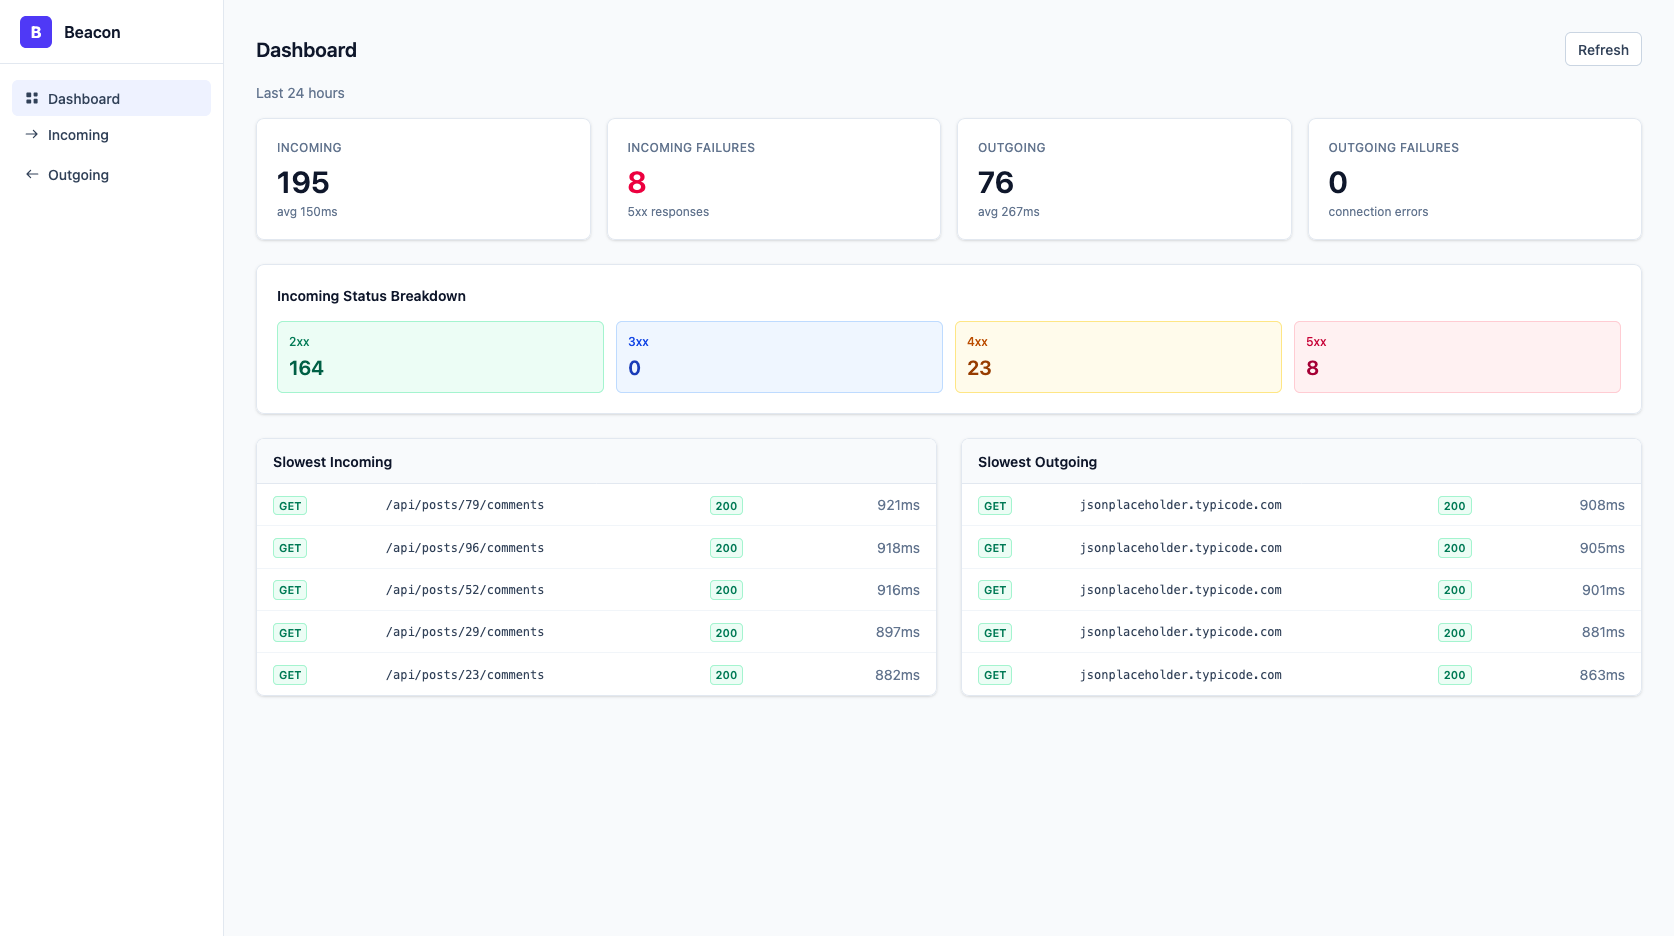
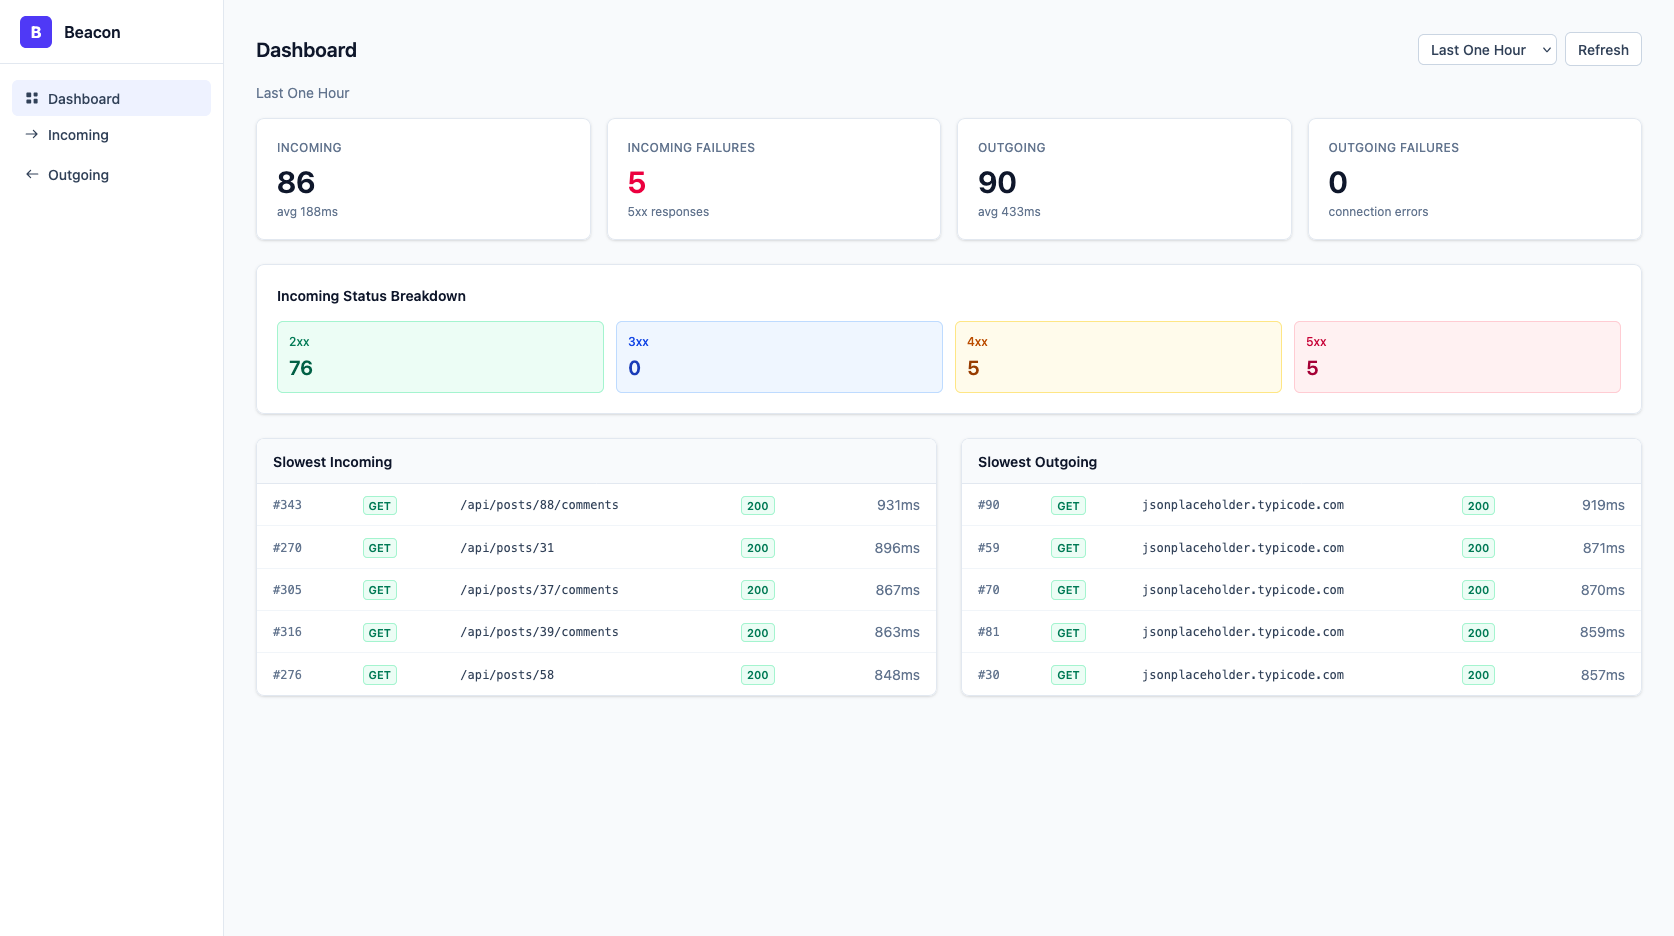
docs: update README with new features

diff --git a/README.md b/README.md
@@ -16,39 +16,42 @@ It is intentionally narrower than [Laravel Telescope](https://github.com/laravel
 - Incoming HTTP request capture (method, path, status, duration, memory, IP, headers, payload, response, controller action, middleware)
 - Outgoing HTTP request capture (method, URI, status, duration, headers, payload, response, error)
 - Per-request rollups: queries (with bindings), model touches (with diff), dispatched jobs (with payload)
-- Caller stack capture for queries, models, and jobs — `Class@method:line`
+- Caller stack capture for queries, models, jobs, **and outgoing HTTP calls** — `Class@method:line`
 - Header and parameter redaction (case-insensitive headers, dot/wildcard parameter paths)
-- Search + method + status-range + date-range + failed-only filters
+- Search + method + status-range + date-range + failed-only filters (date range is timezone-aware — browser local → UTC)
 - Keyset pagination (`?before_id=N`)
 - Pause / resume recording from the UI or via Artisan
 - Bulk delete from the UI
 - Retention pruning command (chunked `DELETE`)
+- **Hard row caps** (`incoming.max_rows` / `outgoing.max_rows`) — oldest entries auto-trim FIFO with concurrency-safe locking
+- **Configurable route middleware** — drop in your own auth gate via `beacon.middleware`
 - Configurable sampling rate, body size limits, ignored hosts/paths/methods/status codes
-- Dashboard with 24h aggregations: counts, status buckets, slowest endpoints, failed outgoing
+- Dashboard with **selectable time windows** (Last One Hour / Today / Yesterday / This Week / This Month / Last Week / Last Month): counts, status buckets, slowest endpoints, failed outgoing
+- UI assets served straight from `vendor/` — `composer update` ships new bundles, no `vendor:publish` follow-up
 
 ## Beacon vs Telescope
 
 
-|                                      | Beacon                         | Telescope                                  |
-| ------------------------------------ | ------------------------------ | ------------------------------------------ |
-| Incoming HTTP requests               | yes                            | yes                                        |
-| Outgoing HTTP client                 | yes                            | yes                                        |
-| Queries (with bindings + caller)     | yes                            | yes                                        |
-| Model events (with diff)             | yes                            | yes                                        |
-| Job dispatches                       | yes                            | yes                                        |
-| Caller (file:line + `Class@method`)  | queries, models, jobs          | queries only                               |
-| Authorization gates                  | no                             | yes                                        |
-| Mail / Notifications                 | no                             | yes                                        |
-| Cache / Redis                        | no                             | yes                                        |
-| Logs / Exceptions                    | no                             | yes                                        |
-| Dumps (`dd` / `dump`)                | no                             | yes                                        |
-| Schedule / Commands                  | no                             | yes                                        |
-| Views                                | no                             | yes                                        |
-| Normalized DB tables (indexed)       | yes                            | no — single JSON entries                   |
-| Indexed filter on method/status/date | yes                            | no — JSON column scans                     |
-| Built-in dashboard widgets           | yes — counts, buckets, slowest | basic listing only                         |
-| UI stack                             | Vue 3 + Tailwind v4            | Vue 2 + Bootstrap                          |
-| Auth gate by default                 | no — open at `/beacon`         | yes — `Gate::define('viewTelescope', ...)` |
+|                                      | Beacon                                                                        | Telescope                                  |
+| ------------------------------------ | ----------------------------------------------------------------------------- | ------------------------------------------ |
+| Incoming HTTP requests               | ✅                                                                             | ✅                                          |
+| Outgoing HTTP client                 | ✅                                                                             | ✅                                          |
+| Queries (with bindings + caller)     | ✅                                                                             | ✅                                          |
+| Model events (with diff)             | ✅                                                                             | ✅                                          |
+| Job dispatches                       | ✅                                                                             | ✅                                          |
+| Caller (file:line + `Class@method`)  | ✅ queries, models, jobs, outgoing                                             | ⚠ queries only                            |
+| Authorization gates                  | ❌                                                                             | ✅                                          |
+| Mail / Notifications                 | ❌                                                                             | ✅                                          |
+| Cache / Redis                        | ❌                                                                             | ✅                                          |
+| Logs / Exceptions                    | ❌                                                                             | ✅                                          |
+| Dumps (`dd` / `dump`)                | ❌                                                                             | ✅                                          |
+| Schedule / Commands                  | ❌                                                                             | ✅                                          |
+| Views                                | ❌                                                                             | ✅                                          |
+| Normalized DB tables (indexed)       | ✅                                                                             | ❌ single JSON entries                      |
+| Indexed filter on method/status/date | ✅                                                                             | ❌ JSON column scans                        |
+| Built-in dashboard widgets           | ✅ counts, buckets, slowest, time-window presets                               | ⚠ basic listing only                      |
+| UI stack                             | Vue 3 + Tailwind v4                                                           | Vue 2 + Bootstrap                          |
+| Auth gate by default                 | ❌ `beacon.middleware = ['web']` (add `'auth'` to lock down)                   | ✅ `Gate::define('viewTelescope', ...)`     |
 
 
 If you need a kitchen-sink debug tool in development, Telescope is the better fit. If you want production-grade HTTP traffic observability with fast filtering and predictable storage, use Beacon.
@@ -65,14 +68,14 @@ If you need a kitchen-sink debug tool in development, Telescope is the better fi
 composer require tintaungkhant/laravel-http-beacon
 ```
 
-Run the install command — it publishes the config, the migrations, and the compiled UI assets, then runs the migration:
+Run the install command — it publishes the config and the migrations, then run the migration:
 
 ```bash
 php artisan beacon:install
 php artisan migrate
 ```
 
-Open `/beacon` in your browser.
+Open `/beacon` in your browser. UI assets are served by the package itself — no `vendor:publish --tag=beacon-assets` step. `composer update` is the only thing you need to run when a new version ships, and the bundle URL carries a cache-buster so browsers pick up the new build automatically.
 
 ## Configuration
 
@@ -88,6 +91,10 @@ return [
 
     'sampling_rate' => (float) env('BEACON_SAMPLING_RATE', 1.0), // 0.1 = 10% of traffic
 
+    // Middleware applied to every Beacon route (dashboard view + JSON API).
+    // Add an auth gate here, e.g. ['web', 'auth', 'can:viewBeacon'].
+    'middleware' => ['web'],
+
     'redact' => (bool) env('BEACON_REDACT', true),
 
     'hidden_headers' => [
@@ -101,6 +108,7 @@ return [
     'incoming' => [
         'enabled' => true,
         'body_size_limit_kb' => 64,
+        'max_rows' => null,            // null/0 = unlimited; otherwise oldest rows are auto-trimmed FIFO
         'only_paths' => [],            // ['api/*'] to record only API routes
         'ignore_paths' => ['beacon*', 'horizon*', 'telescope*', '_ignition*'],
         'ignore_methods' => [],
@@ -110,6 +118,7 @@ return [
     'outgoing' => [
         'enabled' => true,
         'body_size_limit_kb' => 64,
+        'max_rows' => null,            // null/0 = unlimited; same FIFO trim behavior
         'ignore_hosts' => [],          // ['*.amazonaws.com']
     ],
 
@@ -156,10 +165,24 @@ Schedule::command('beacon:prune')->daily();
 
 ## Authentication
 
-Beacon ships **without** an auth gate. The `/beacon/`* routes are open by default — fine for local development, **not** for production. Wrap the package's routes in your own middleware in your app's `bootstrap/app.php`, or only enable Beacon in non-production environments:
+Beacon defaults to `'middleware' => ['web']`, which gives you sessions and CSRF but **no auth gate**. For production, add your own gate via the same config key:
 
 ```php
-// .env (production)
+// config/beacon.php
+'middleware' => ['web', 'auth', 'can:viewBeacon'],
+```
+
+…and define the gate however you normally would:
+
+```php
+// app/Providers/AppServiceProvider.php
+Gate::define('viewBeacon', fn ($user) => in_array($user->email, ['ops@example.com']));
+```
+
+Or just disable Beacon entirely in production:
+
+```bash
+# .env
 BEACON_ENABLED=false
 ```
 
